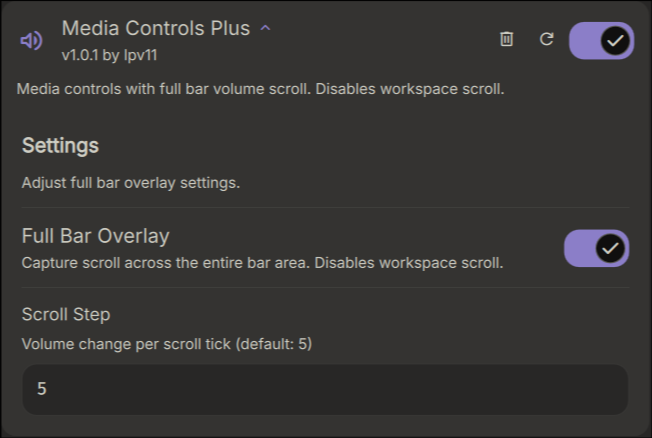
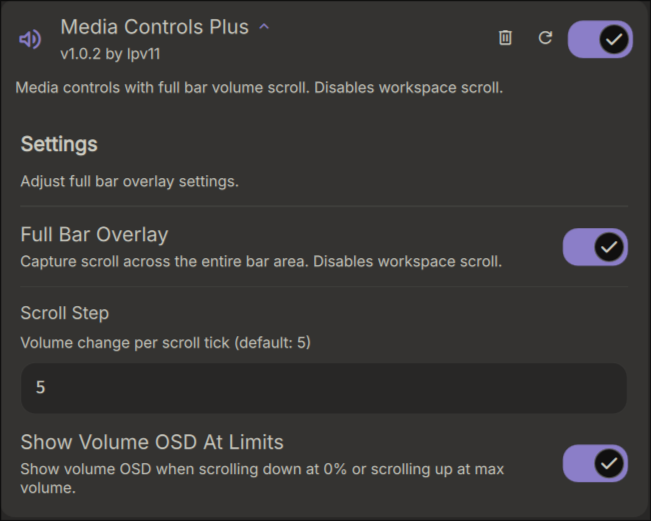
Add volume-limit OSD option and update screenshot

diff --git a/MediaControlsPlus.qml b/MediaControlsPlus.qml
@@ -20,6 +20,7 @@ PluginComponent {
 
     property bool fullOverlay: pluginData.fullOverlay !== false
     property bool hideWhenNoMusic: pluginData.hideWhenNoMusic !== false
+    property bool showOsdAtLimits: pluginData.showOsdAtLimits !== false
     pillClickAction: () => { playerctl(["play-pause"]); }
 
     function applyForcedNoBackground() {
@@ -43,8 +44,51 @@ PluginComponent {
     function bump(deltaY) {
         if (deltaY === 0)
             return
+
+        const sinkAudio = AudioService.sink?.audio
+        const currentVolumePct = sinkAudio ? Math.round(sinkAudio.volume * 100) : -1
+        const maxVol = AudioService.sinkMaxVolume
+        const atUpperLimit = !!sinkAudio && deltaY > 0 && currentVolumePct >= maxVol
+        const atLowerLimit = !!sinkAudio && deltaY < 0 && currentVolumePct <= 0
+
         const cmd = deltaY > 0 ? "increment" : "decrement"
         Quickshell.execDetached(["dms", "ipc", "call", "audio", cmd, step.toString()])
+
+        if (showOsdAtLimits && (atUpperLimit || atLowerLimit))
+            pulseVolumeOsd(atUpperLimit)
+    }
+
+    property real _volumeRestoreValue: -1
+
+    function pulseVolumeOsd(atUpperLimit) {
+        const sinkAudio = AudioService.sink?.audio
+        if (!sinkAudio)
+            return
+
+        // Force a brief volume property change so VolumeOSD reacts even at hard limits.
+        _volumeRestoreValue = sinkAudio.volume
+        const maxVol = AudioService.sinkMaxVolume / 100
+        const epsilon = 0.001
+
+        if (atUpperLimit) {
+            sinkAudio.volume = Math.max(0, _volumeRestoreValue - epsilon)
+        } else {
+            sinkAudio.volume = Math.min(maxVol, _volumeRestoreValue + epsilon)
+        }
+        volumeRestoreTimer.restart()
+    }
+
+    Timer {
+        id: volumeRestoreTimer
+        interval: 1
+        repeat: false
+        onTriggered: {
+            const sinkAudio = AudioService.sink?.audio
+            if (!sinkAudio || root._volumeRestoreValue < 0)
+                return
+            sinkAudio.volume = root._volumeRestoreValue
+            root._volumeRestoreValue = -1
+        }
     }
 
     function playerctl(args) {

diff --git a/MediaControlsPlusSettings.qml b/MediaControlsPlusSettings.qml
@@ -51,4 +51,11 @@ PluginSettings {
         placeholder: "5"
         defaultValue: "5"
     }
+
+    ToggleSetting {
+        settingKey: "showOsdAtLimits"
+        label: "Show Volume OSD At Limits"
+        description: "Show volume OSD when scrolling down at 0% or scrolling up at max volume."
+        defaultValue: true
+    }
 }
